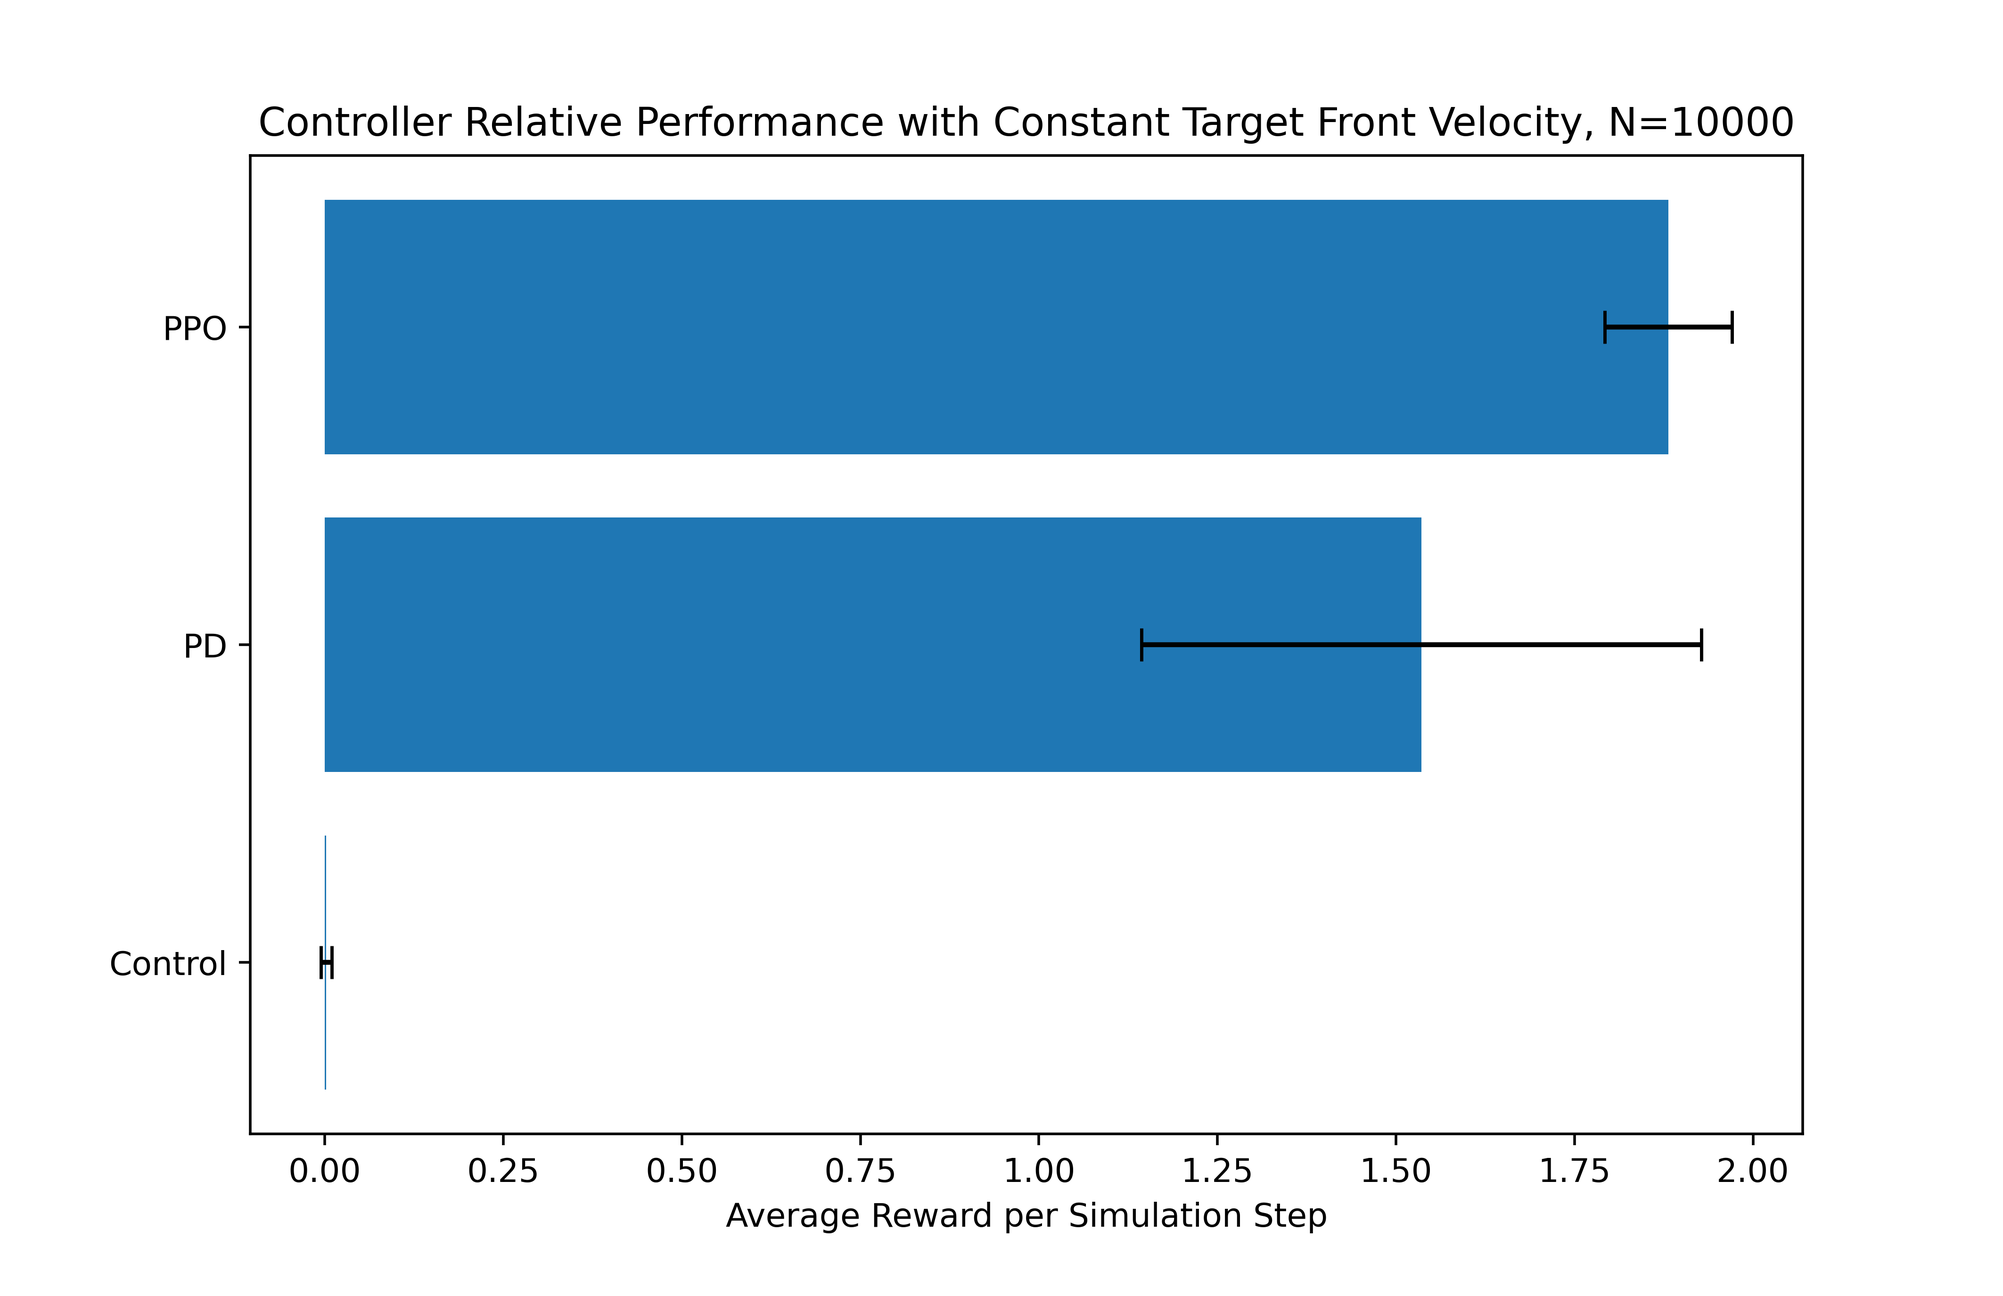
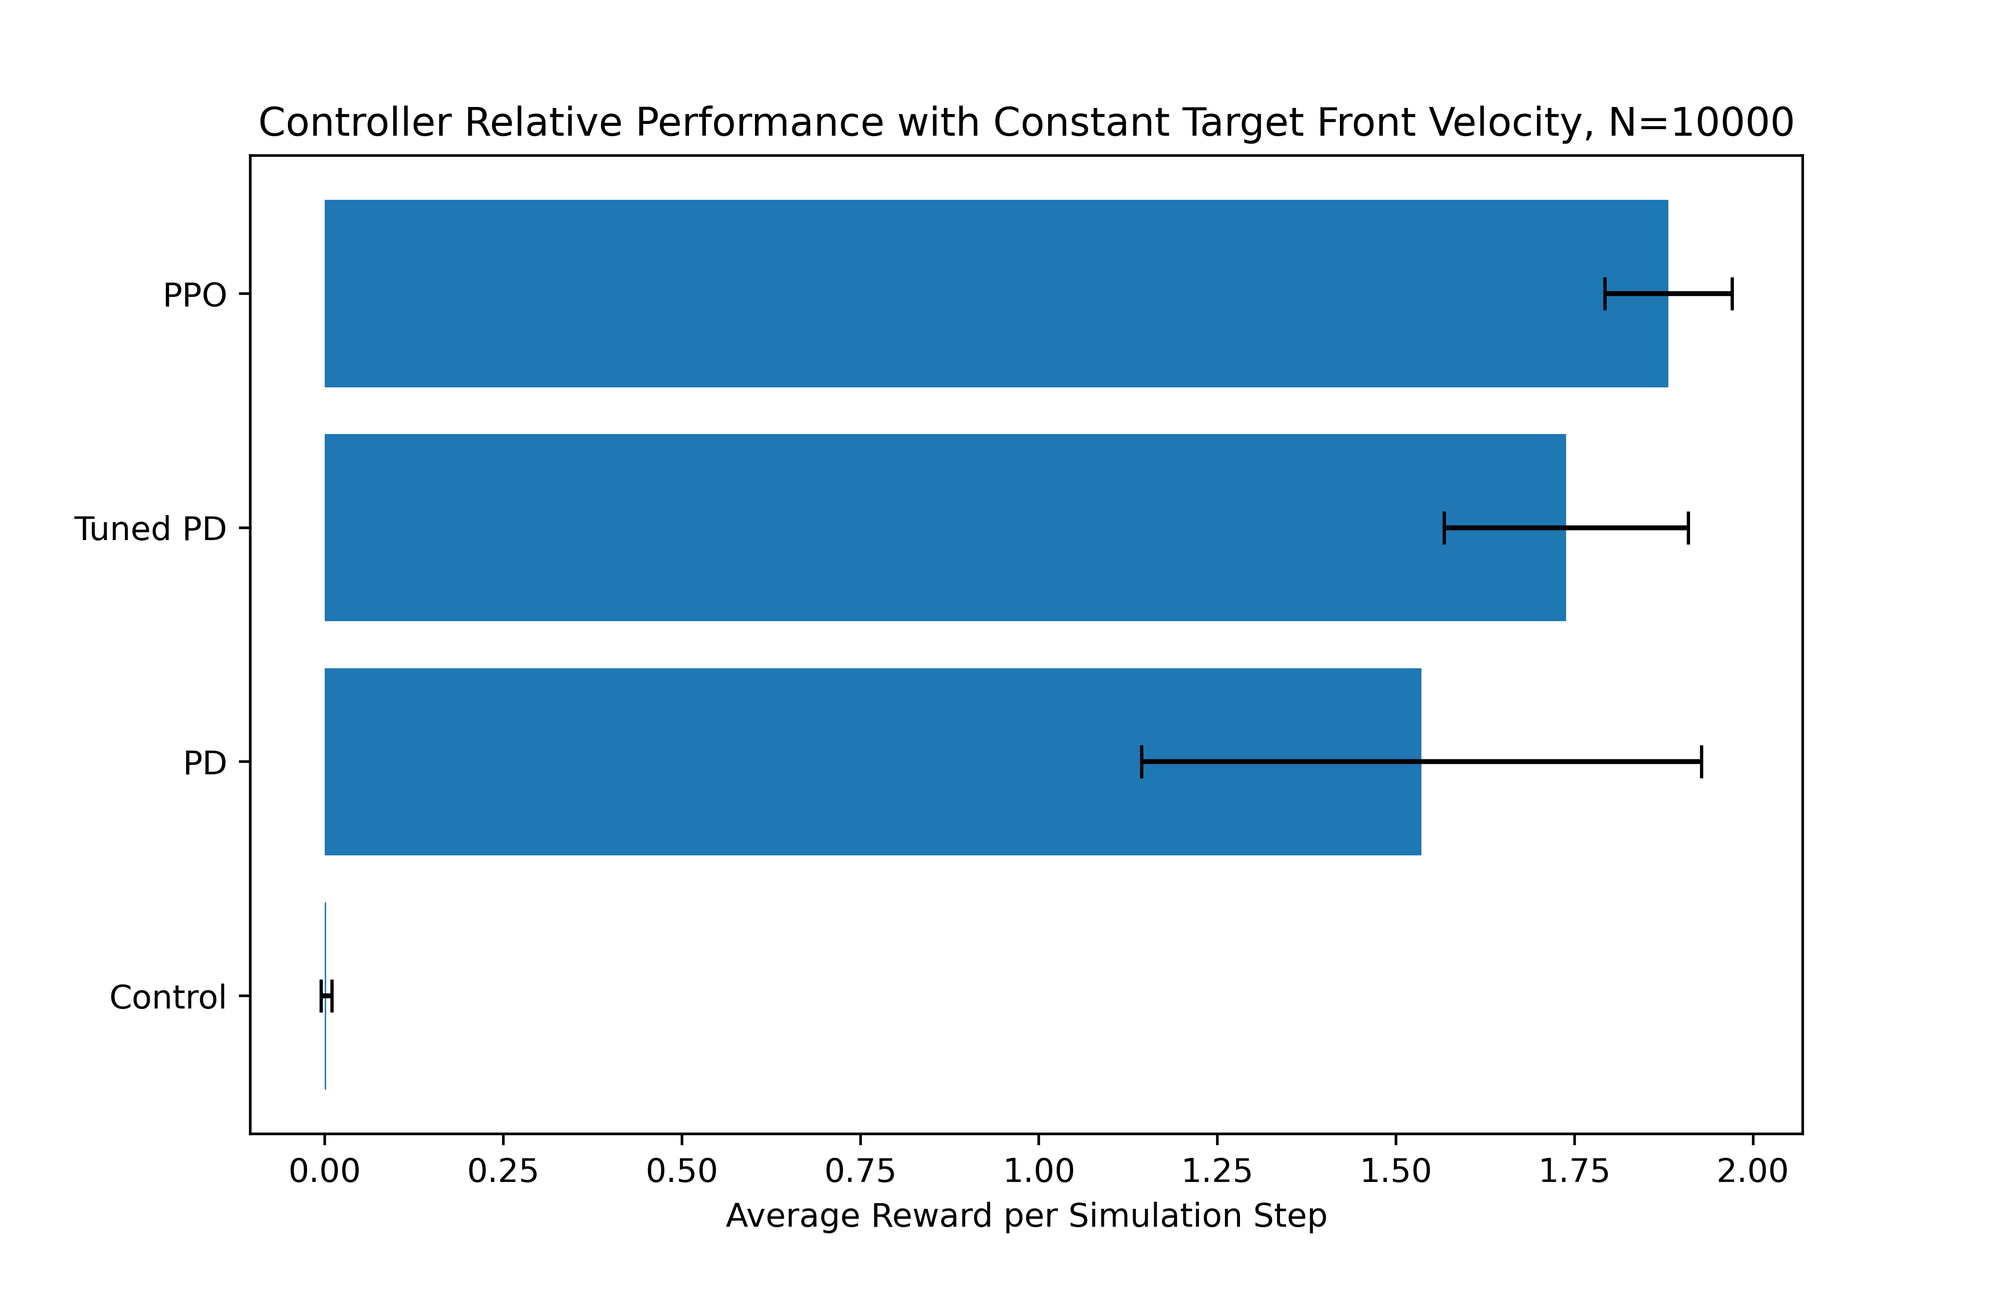
Tuned PD controller. Started rand vel studies

diff --git a/1D_Cure/Finite_Element_Solver_1D.py b/1D_Cure/Finite_Element_Solver_1D.py
@@ -43,18 +43,9 @@ class FES():
         
         # Calculate the target vectors
         self.target_front_vel = np.ones(int(self.sim_duration / self.time_step))*self.target
-        self.target_front_vel_derivative = np.zeros(self.target_front_vel.shape)
-        self.derivative_scale = 1.0
         if self.random_target:
-            frequency = np.random.randint(1,5)
-            total_steps = int(self.sim_duration / self.time_step)
-            x_coords = np.array([*range(int(self.sim_duration / self.time_step))])
-            self.perturbation_loc = 0.5*(np.sin(frequency*np.pi*x_coords/total_steps) - 1.0)
-            self.target_front_vel = self.target_front_vel + self.purturbation_scale * self.perturbation_loc
-            self.target_front_vel_derivative = (frequency*self.purturbation_scale*np.pi*np.cos((frequency*np.pi*x_coords)/(total_steps)))/(2.0*total_steps)
-            self.derivative_scale = max(self.target_front_vel_derivative)
+                self.target_front_vel = np.ones(int(self.sim_duration / self.time_step))*self.target - 2.0*(np.random.rand()-0.5)*self.purturbation_scale
         self.current_target_front_vel = self.target_front_vel[self.current_index]
-        self.current_target_front_vel_der = self.target_front_vel_derivative[self.current_index]
         
         # Trigger conditions
         self.trigger_temperature = 458.15
@@ -248,22 +239,12 @@ class FES():
             laser_view = np.mean(np.resize(laser_view[0:-(len(laser_view)%10)],(10,len(laser_view)//10)),axis=1)
             
             # Normalize and concatenate all substates
-            if self.random_target:
-                state = np.concatenate((average_temps/self.temperature_limit, 
-                                        laser_view/self.temperature_limit,
-                                        [self.front_loc/self.length], 
-                                        [self.front_vel/self.target], 
-                                        [self.current_target_front_vel/self.target],
-                                        [self.current_target_front_vel_der/self.derivative_scale],
-                                        [self.input_location/self.length], 
-                                        [self.input_magnitude]))
-            else:
-                state = np.concatenate((average_temps/self.temperature_limit, 
-                                        laser_view/self.temperature_limit,
-                                        [self.front_loc/self.length], 
-                                        [self.front_vel/self.current_target_front_vel], 
-                                        [self.input_location/self.length], 
-                                        [self.input_magnitude]))
+            state = np.concatenate((average_temps/self.temperature_limit, 
+                                    laser_view/self.temperature_limit,
+                                    [self.front_loc/self.length], 
+                                    [self.front_vel/self.current_target_front_vel], 
+                                    [self.input_location/self.length], 
+                                    [self.input_magnitude]))
             
         # Return the state
         return state
@@ -294,7 +275,6 @@ class FES():
             self.current_time = self.current_time + self.time_step
             self.current_index = self.current_index + 1
             self.current_target_front_vel = self.target_front_vel[self.current_index]
-            self.current_target_front_vel_der = self.target_front_vel_derivative[self.current_index]
         
         return done
 
@@ -322,18 +302,9 @@ class FES():
         
         # Reset the target definition
         self.target_front_vel = np.ones(int(self.sim_duration / self.time_step))*self.target
-        self.target_front_vel_derivative = np.zeros(self.target_front_vel.shape)
-        self.derivative_scale = 1.0
         if self.random_target:
-            frequency = np.random.randint(1,5)
-            total_steps = int(self.sim_duration / self.time_step)
-            x_coords = np.array([*range(int(self.sim_duration / self.time_step))])
-            self.perturbation_loc = 0.5*(np.sin(frequency*np.pi*x_coords/total_steps) - 1.0)
-            self.target_front_vel = self.target_front_vel + self.purturbation_scale * self.perturbation_loc
-            self.target_front_vel_derivative = (frequency*self.purturbation_scale*np.pi*np.cos((frequency*np.pi*x_coords)/(total_steps)))/(2.0*total_steps)
-            self.derivative_scale = max(self.target_front_vel_derivative)
+                self.target_front_vel = np.ones(int(self.sim_duration / self.time_step))*self.target - 2.0*(np.random.rand()-0.5)*self.purturbation_scale
         self.current_target_front_vel = self.target_front_vel[self.current_index]
-        self.current_target_front_vel_der = self.target_front_vel_derivative[self.current_index]
         
         # Reset input
         self.input_location = np.random.choice(self.panels)

diff --git a/1D_Cure/get_ppo_training.py b/1D_Cure/get_ppo_training.py
@@ -30,20 +30,20 @@ with open("results/ppo_5/output", 'rb') as file:
     data_5 = pickle.load(file)  
 set_5=data_5['logbook']['data'][0]['r_per_episode']
 
-with open("results/ppo_6/output", 'rb') as file:
-    data_6 = pickle.load(file)  
-set_6=data_6['logbook']['data'][0]['r_per_episode']
+# with open("results/ppo_6/output", 'rb') as file:
+#     data_6 = pickle.load(file)  
+# set_6=data_6['logbook']['data'][0]['r_per_episode']
 
-with open("results/ppo_7/output", 'rb') as file:
-    data_7 = pickle.load(file)  
-set_7=data_7['logbook']['data'][0]['r_per_episode']
+# with open("results/ppo_7/output", 'rb') as file:
+#     data_7 = pickle.load(file)  
+# set_7=data_7['logbook']['data'][0]['r_per_episode']
 
-with open("results/ppo_8/output", 'rb') as file:
-    data_8 = pickle.load(file)  
-set_8=data_8['logbook']['data'][0]['r_per_episode']
+# with open("results/ppo_8/output", 'rb') as file:
+#     data_8 = pickle.load(file)  
+# set_8=data_8['logbook']['data'][0]['r_per_episode']
 
 # Combine actor data
-total_set = np.concatenate((set_1, set_2, set_3, set_4, set_5, set_6, set_7, set_8))
+total_set = np.concatenate((set_1, set_2, set_3, set_4, set_5))#, set_6, set_7, set_8))
 
 # Process actor data
 ts = pd.Series(total_set)
@@ -199,12 +199,12 @@ set_2=data_2['logbook']['data'][0]['value_error'][0]
 set_3=data_3['logbook']['data'][0]['value_error'][0]
 set_4=data_4['logbook']['data'][0]['value_error'][0]
 set_5=data_5['logbook']['data'][0]['value_error'][0]
-set_6=data_6['logbook']['data'][0]['value_error'][0]
-set_7=data_7['logbook']['data'][0]['value_error'][0]
-set_8=data_8['logbook']['data'][0]['value_error'][0]
+# set_6=data_6['logbook']['data'][0]['value_error'][0]
+# set_7=data_7['logbook']['data'][0]['value_error'][0]
+# set_8=data_8['logbook']['data'][0]['value_error'][0]
 
 # Combine critic data
-total_set = np.concatenate((set_1, set_2, set_3, set_4, set_5, set_6, set_7, set_8))
+total_set = np.concatenate((set_1, set_2, set_3, set_4, set_5))#, set_6, set_7, set_8))
 
 # Plot critic data
 plt.clf()
@@ -234,12 +234,12 @@ set_2=data_2['logbook']['data'][0]['loc_rate_stdev']
 set_3=data_3['logbook']['data'][0]['loc_rate_stdev']
 set_4=data_4['logbook']['data'][0]['loc_rate_stdev']
 set_5=data_5['logbook']['data'][0]['loc_rate_stdev']
-set_6=data_6['logbook']['data'][0]['loc_rate_stdev']
-set_7=data_7['logbook']['data'][0]['loc_rate_stdev']
-set_8=data_8['logbook']['data'][0]['loc_rate_stdev']
+# set_6=data_6['logbook']['data'][0]['loc_rate_stdev']
+# set_7=data_7['logbook']['data'][0]['loc_rate_stdev']
+# set_8=data_8['logbook']['data'][0]['loc_rate_stdev']
 
 # Combine loc stdev data
-total_set = np.concatenate((set_1, set_2, set_3, set_4, set_5, set_6, set_7, set_8))
+total_set = np.concatenate((set_1, set_2, set_3, set_4, set_5))#, set_6, set_7, set_8))
 
 # Plot loc stdev data
 plt.clf()
@@ -258,12 +258,12 @@ set_2=data_2['logbook']['data'][0]['mag_stdev']
 set_3=data_3['logbook']['data'][0]['mag_stdev']
 set_4=data_4['logbook']['data'][0]['mag_stdev']
 set_5=data_5['logbook']['data'][0]['mag_stdev']
-set_6=data_6['logbook']['data'][0]['mag_stdev']
-set_7=data_7['logbook']['data'][0]['mag_stdev']
-set_8=data_8['logbook']['data'][0]['mag_stdev']
+# set_6=data_6['logbook']['data'][0]['mag_stdev']
+# set_7=data_7['logbook']['data'][0]['mag_stdev']
+# set_8=data_8['logbook']['data'][0]['mag_stdev']
 
 # Combine mag stdev data
-total_set = np.concatenate((set_1, set_2, set_3, set_4, set_5, set_6, set_7, set_8))
+total_set = np.concatenate((set_1, set_2, set_3, set_4, set_5))#, set_6, set_7, set_8))
 
 # Plot mag stdev data
 plt.clf()

diff --git a/1D_Cure/get_pd_performance.py b/1D_Cure/get_pd_performance.py
@@ -149,6 +149,9 @@ def main(env, agent, total_trajectories, execution_rate, steps_per_trajectory):
 
 if __name__ == '__main__':
     
+    # Save parameters
+    path = 'PD-Controller'
+    
     # Create environment
     env = fes.FES(for_pd=True)
     num_states = int(env.num_panels/10 + 5)
@@ -178,7 +181,7 @@ if __name__ == '__main__':
     # Create agents, run simulations, save results
     for curr_agent in range(num_agents):
         print("Agent " + str(curr_agent+1) + " / " + str(num_agents))
-        agent = pdc.PD_Controller(env.length, env.panels, -0.05, -0.5, -0.5, -0.05)
+        agent = pdc.PD_Controller(env.length, env.panels, -0.04, -0.5, -0.4, -0.01)
         data, agent, env = main(env, agent, total_trajectories, execution_rate, steps_per_trajecotry)
         logbook['data'].append(data)
         logbook['agents'].append(agent)
@@ -213,7 +216,7 @@ if __name__ == '__main__':
     'steps_per_trajecotry' : steps_per_trajecotry,
     'logbook' : logbook
     }
-    with open("results/PD-Controller/output", 'wb') as file:
+    with open("results/"+path+"/output", 'wb') as file:
         pickle.dump(outputs, file)  
 
     print("Plotting...")
@@ -229,7 +232,7 @@ if __name__ == '__main__':
     plt.ylim(0.0, max(1.1*1000.0*max(np.array(logbook['data'][best_overall_agent]['front_velocity'])),1.1*1000.0*env.target))
     plt.xlim(0.0, env.sim_duration)
     plt.gcf().set_size_inches(8.5, 5.5)
-    plt.savefig('results/PD-Controller/front_velocity.png', dpi = 500)
+    plt.savefig('results/'+path+'/front_velocity.png', dpi = 500)
     plt.close()
         
     # Plot learning curve 1
@@ -244,7 +247,7 @@ if __name__ == '__main__':
         plt.plot([*range(len(average_r_per_step))],average_r_per_step)
         plt.fill_between([*range(len(average_r_per_step))],average_r_per_step+r_per_step_stdev,average_r_per_step-r_per_step_stdev,alpha=0.6)
     plt.gcf().set_size_inches(8.5, 5.5)
-    plt.savefig('results/PD-Controller/r_per_sim.png', dpi = 500)
+    plt.savefig('results/'+path+'/r_per_sim.png', dpi = 500)
     plt.close()
     
     # Plot learning curve 2
@@ -259,7 +262,7 @@ if __name__ == '__main__':
         plt.plot([*range(len(average_r_per_episode))],average_r_per_episode)
         plt.fill_between([*range(len(average_r_per_episode))],average_r_per_episode+r_per_episode_stdev,average_r_per_episode-r_per_episode_stdev,alpha=0.6)
     plt.gcf().set_size_inches(8.5, 5.5)
-    plt.savefig('results/PD-Controller/r_per_epi.png', dpi = 500)
+    plt.savefig('results/'+path+'/r_per_epi.png', dpi = 500)
     plt.close()
     
     # Make video of the best temperature field trajecotry as function of time
@@ -296,7 +299,7 @@ if __name__ == '__main__':
             labs=(temp[0].get_label(),max_temp.get_label(),cure[0].get_label(),front.get_label(),input_center.get_label(),input_edge.get_label())
             ax1.legend(lns, labs, loc=1)
             plt.gcf().set_size_inches(8.5, 5.5)
-            plt.savefig('results/PD-Controller/fields/fields_'+'{:.2f}'.format(curr_step*env.time_step)+'.png', dpi = 100)
+            plt.savefig('results/'+path+'/fields/fields_'+'{:.2f}'.format(curr_step*env.time_step)+'.png', dpi = 100)
             plt.close()
     
     print("Done!")

diff --git a/1D_Cure/get_relative_pd_performance.py b/1D_Cure/get_relative_pd_performance.py
@@ -1,0 +1,60 @@
+# -*- coding: utf-8 -*-
+"""
+Created on Sun Dec 20 12:47:53 2020
+
+@author: GKSch
+"""
+
+import pickle
+import numpy as np
+import matplotlib.pyplot as plt
+
+# Load data
+with open("results/306_9_4_5_4_1/output", 'rb') as file:
+    pd_299 = pickle.load(file)
+with open("results/306_9_4_5_4_2/output", 'rb') as file:
+    pd_300 = pickle.load(file)
+with open("results/306_9_4_5_4_3/output", 'rb') as file:
+    pd_301 = pickle.load(file)
+with open("results/306_9_4_5_4_4/output", 'rb') as file:
+    pd_302 = pickle.load(file)
+with open("results/306_9_4_5_4_5/output", 'rb') as file:
+    pd_303 = pickle.load(file)
+with open("results/306_9_4_5_4_6/output", 'rb') as file:
+    pd_304 = pickle.load(file)
+with open("results/306_9_4_5_4_7/output", 'rb') as file:
+    pd_305 = pickle.load(file)
+with open("results/306_9_4_5_4_8/output", 'rb') as file:
+    pd_306 = pickle.load(file)
+    
+# Process data
+pd_299_mean = np.mean(np.array(pd_299['logbook']))
+pd_299_stdev = np.std(np.array(pd_299['logbook']))
+pd_300_mean = np.mean(np.array(pd_300['logbook']))
+pd_300_stdev = np.std(np.array(pd_300['logbook']))
+pd_301_mean = np.mean(np.array(pd_301['logbook']))
+pd_301_stdev = np.std(np.array(pd_301['logbook']))
+pd_302_mean = np.mean(np.array(pd_302['logbook']))
+pd_302_stdev = np.std(np.array(pd_302['logbook']))
+pd_303_mean = np.mean(np.array(pd_303['logbook']))
+pd_303_stdev = np.std(np.array(pd_303['logbook']))
+pd_304_mean = np.mean(np.array(pd_304['logbook']))
+pd_304_stdev = np.std(np.array(pd_304['logbook']))
+pd_305_mean = np.mean(np.array(pd_305['logbook']))
+pd_305_stdev = np.std(np.array(pd_305['logbook']))
+pd_306_mean = np.mean(np.array(pd_306['logbook']))
+pd_306_stdev = np.std(np.array(pd_306['logbook']))
+
+# Plot data
+objects = ('0.01', '0.02', '0.03', '0.04', '0.05', '0.06', '0.07', '0.08')
+y_pos = np.arange(len(objects))
+performance = [pd_299_mean, pd_300_mean, pd_301_mean, pd_302_mean, pd_303_mean, pd_304_mean, pd_305_mean, pd_306_mean]
+error = [pd_299_stdev, pd_300_stdev, pd_301_stdev, pd_302_stdev, pd_303_stdev, pd_304_stdev, pd_305_stdev, pd_306_stdev]
+plt.barh(y_pos, performance, xerr=error, capsize=5.0, align='center')
+plt.yticks(y_pos, objects)
+plt.xlabel('Average Reward per Simulation Step')
+plt.ylabel('K_D for Position Controller')
+plt.title('PD Controller Relative Performance with Constant Target Front Velocity, N=100')
+plt.gcf().set_size_inches(8.5, 5.5)
+plt.savefig('results/pd_results/kd-pos_performance.png', dpi = 500)
+plt.close()

diff --git a/1D_Cure/get_relative_performance.py b/1D_Cure/get_relative_performance.py
@@ -13,33 +13,40 @@ import matplotlib.pyplot as plt
 with open("results/ppo_results/output", 'rb') as file:
     ppo = pickle.load(file)
 with open("results/pd_1/output", 'rb') as file:
-    pd = pickle.load(file)
+    pd_1 = pickle.load(file)
+with open("results/pd_2/output", 'rb') as file:
+    pd_2 = pickle.load(file)
 with open("results/control/output", 'rb') as file:
     con = pickle.load(file)
     
 # Process data
 ppo_episode_rewards = []
-pd_episode_rewards = []
+pd_1_episode_rewards = []
+pd_2_episode_rewards = []
 con_episode_rewards = []
 for current_agent in range(len(ppo['logbook']['agents'])):
     ppo_episode_rewards.append(ppo['logbook']['data'][current_agent]['r_per_episode'])
-    pd_episode_rewards.append(pd['logbook']['data'][current_agent]['r_per_episode'])
+    pd_1_episode_rewards.append(pd_1['logbook']['data'][current_agent]['r_per_episode'])
+    pd_2_episode_rewards.append(pd_2['logbook']['data'][current_agent]['r_per_episode'])
     con_episode_rewards.append(con['logbook']['data'][current_agent]['r_per_episode'])
 ppo_episode_rewards = np.array(ppo_episode_rewards)
 ppo_mean = np.mean(ppo_episode_rewards)
 ppo_stdev = np.std(ppo_episode_rewards)
-pd_episode_rewards = np.array(pd_episode_rewards)
-pd_mean = np.mean(pd_episode_rewards)
-pd_stdev = np.std(pd_episode_rewards)
+pd_1_episode_rewards = np.array(pd_1_episode_rewards)
+pd_1_mean = np.mean(pd_1_episode_rewards)
+pd_1_stdev = np.std(pd_1_episode_rewards)
+pd_2_episode_rewards = np.array(pd_2_episode_rewards)
+pd_2_mean = np.mean(pd_2_episode_rewards)
+pd_2_stdev = np.std(pd_2_episode_rewards)
 con_episode_rewards = np.array(con_episode_rewards)
 con_mean = np.mean(con_episode_rewards)
 con_stdev = np.std(con_episode_rewards)
 
 # Plot data
-objects = ('Control', 'PD', 'PPO')
+objects = ('Control', 'PD', 'Tuned PD', 'PPO')
 y_pos = np.arange(len(objects))
-performance = [con_mean, pd_mean, ppo_mean]+1.01*abs(con_mean)
-error = [con_stdev, pd_stdev, ppo_stdev]
+performance = [con_mean, pd_1_mean, pd_2_mean, ppo_mean]+1.01*abs(con_mean)
+error = [con_stdev, pd_1_stdev, pd_2_stdev, ppo_stdev]
 plt.barh(y_pos, performance, xerr=error, capsize=5.0, align='center')
 plt.yticks(y_pos, objects)
 plt.xlabel('Average Reward per Simulation Step')

diff --git a/1D_Cure/Simulation_PPO-Controller_Rerun.py b/1D_Cure/Simulation_PPO-Controller_Rerun.py
@@ -166,8 +166,9 @@ def main(env, agent, total_trajectories, execution_rate):
 if __name__ == '__main__':
     
     # Create environment
-    env = fes.FES(random_target=True)
-    num_states = int(env.num_panels/10 + 16)
+    random_target = True
+    env = fes.FES(random_target=random_target)
+    num_states = int(env.num_panels/10 + 14)
         
     # Set agent parameters
     total_trajectories = 5000
@@ -177,7 +178,7 @@ if __name__ == '__main__':
     gamma = 0.99
     lamb = 0.95
     epsilon = 0.20
-    start_alpha = 1.0e-3
+    start_alpha = 2.0e-4
     end_alpha = 1.0e-4
     
     # Calculated agent parameters

diff --git a/1D_Cure/PD_Controller.py b/1D_Cure/PD_Controller.py
@@ -16,9 +16,9 @@ class PD_Controller:
         self.contracted_panels = np.mean(np.resize(self.panels,(len(self.panels)//10,10)),axis=1)
         
         # Desired state information
-        self.desired_temperature = 302.0
+        self.desired_temperature = 306.0
         self.desired_temperature_rate = 0.0
-        self.lead_distance = 0.10*length
+        self.lead_distance = 0.09*length
         
         # Control gains
         self.kp_m = kp_m

diff --git a/1D_Cure/Simulation_PPO-Controller.py b/1D_Cure/Simulation_PPO-Controller.py
@@ -166,8 +166,9 @@ def main(env, agent, total_trajectories, execution_rate):
 if __name__ == '__main__':
     
     # Create environment
-    env = fes.FES(random_target=True)
-    num_states = int(env.num_panels/10 + 16)
+    random_target = True
+    env = fes.FES(random_target=random_target)
+    num_states = int(env.num_panels/10 + 14)
         
     # Set agent parameters
     total_trajectories = 5000
